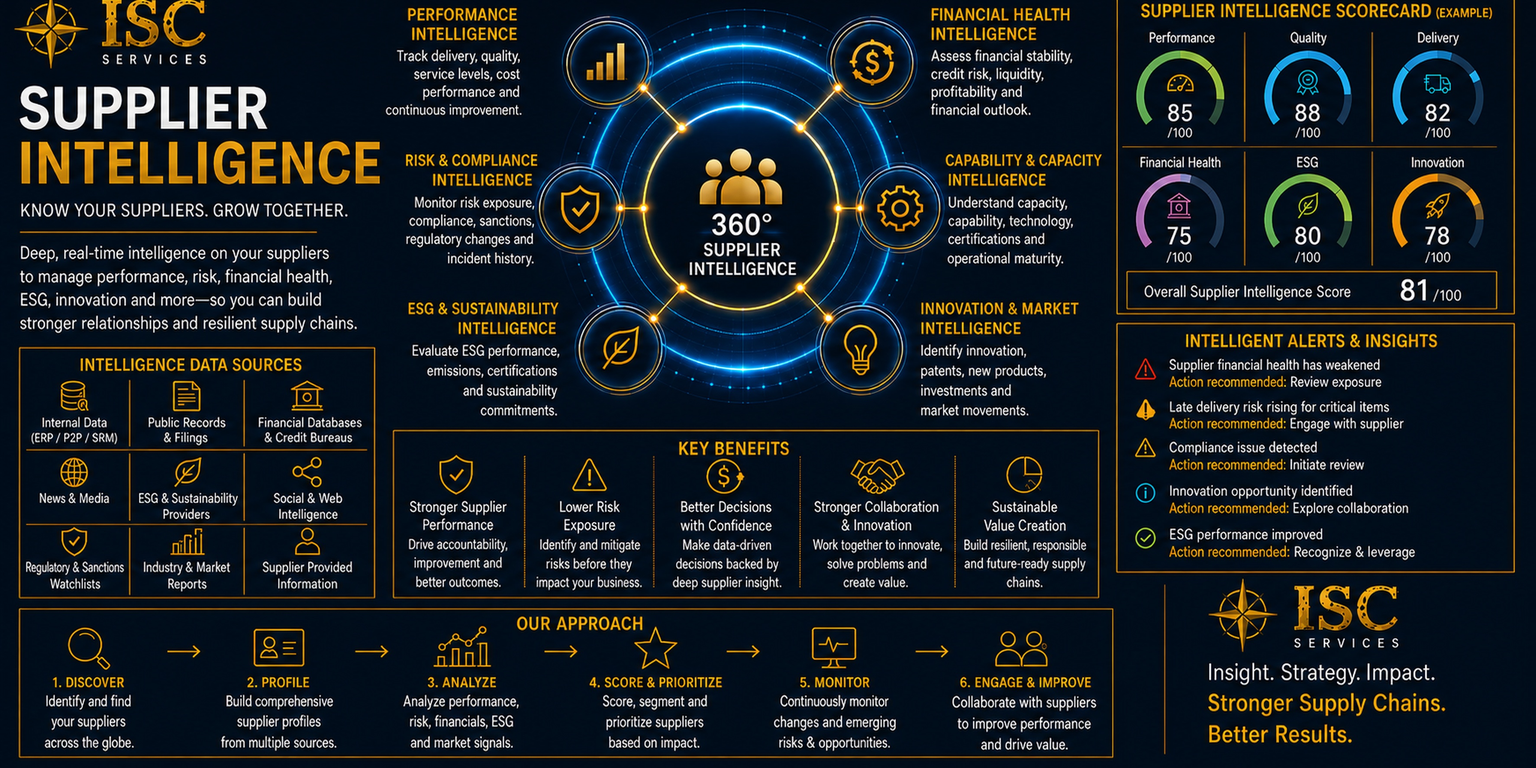
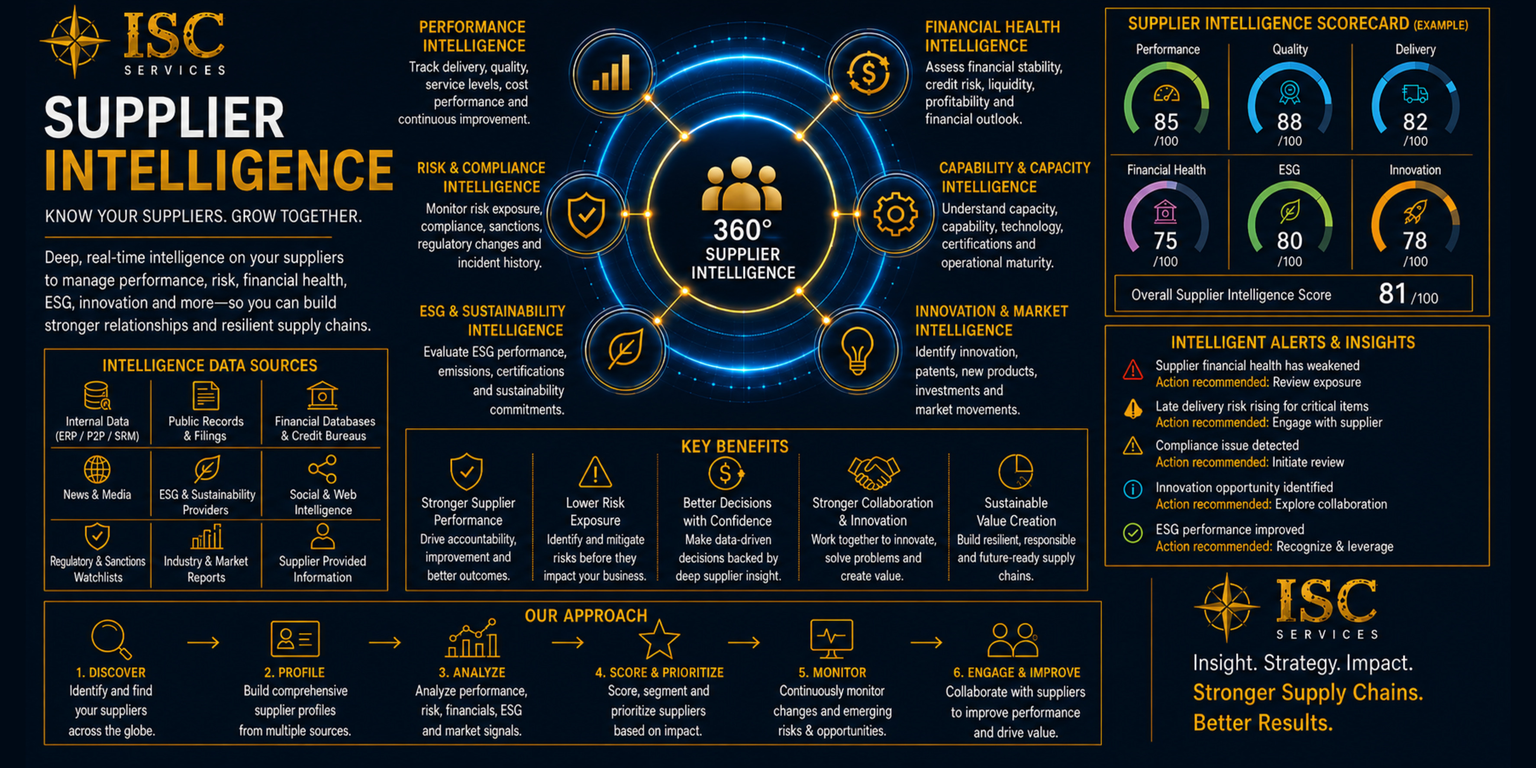
Fix: replace Supplier Intelligence hero slide with uncropped source image

diff --git a/artifacts/i-supply-chain/src/pages/Home.tsx b/artifacts/i-supply-chain/src/pages/Home.tsx
@@ -209,7 +209,7 @@ const heroSlides = [
   { src: '/brand/hero-service-kpi.jpg?v=4', alt: 'ISC KPIs & Benchmarking', label: 'KPIs & Benchmarking', labelAr: 'مؤشرات الأداء والمقارنة المرجعية' },
   { src: '/brand/hero-service-tco.jpg?v=3', alt: 'ISC Total Cost of Ownership', label: 'Total Cost of Ownership (TCO)', labelAr: 'التكلفة الإجمالية للملكية' },
   { src: '/brand/hero-service-clm.jpg?v=4', alt: 'ISC Contract Intelligence', label: 'Contract Intelligence (CLM)', labelAr: 'إدارة دورة حياة العقود' },
-  { src: '/brand/hero-service-srm.jpg?v=4', alt: 'ISC Supplier Intelligence', label: 'Supplier Intelligence (SRM)', labelAr: 'إدارة علاقات الموردين' },
+  { src: '/brand/hero-service-srm.jpg?v=5', alt: 'ISC Supplier Intelligence', label: 'Supplier Intelligence (SRM)', labelAr: 'إدارة علاقات الموردين' },
   { src: '/brand/hero-service-risk.jpg?v=5', alt: 'ISC Supply Chain Resiliency & Risk', label: 'SC Resiliency & Risk', labelAr: 'مرونة سلسلة الإمداد وإدارة المخاطر' },
 ];
 
